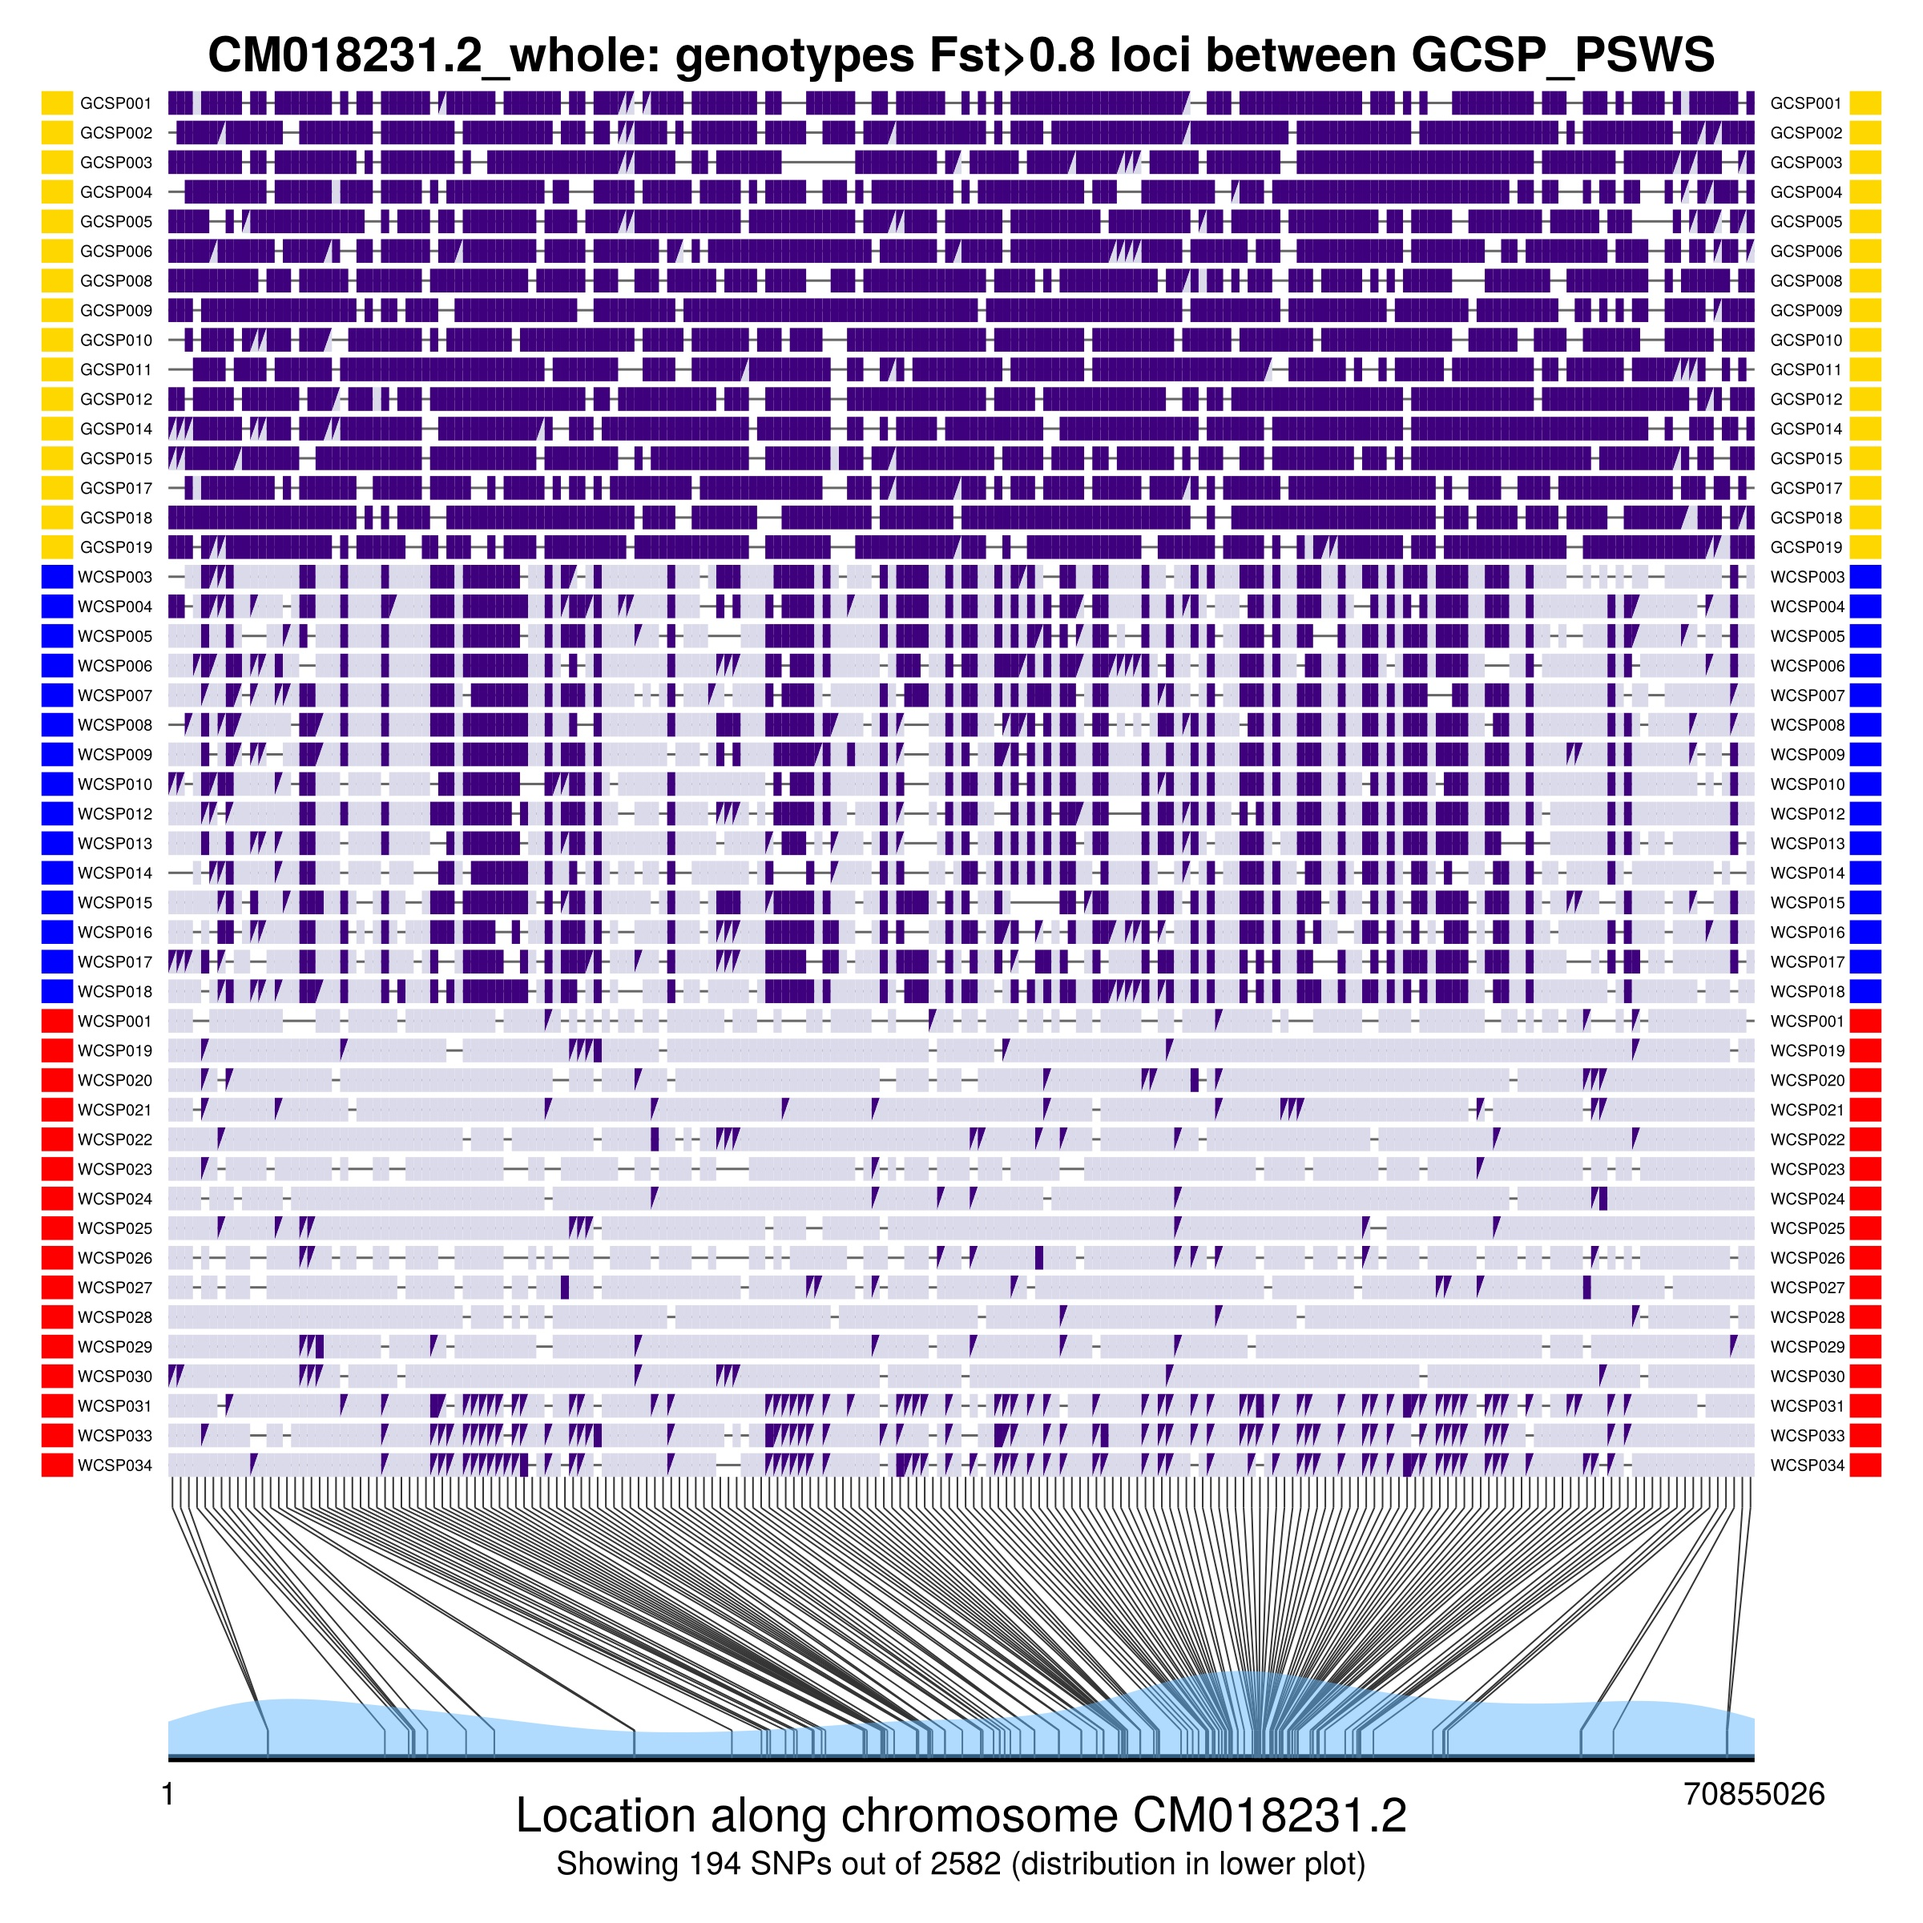
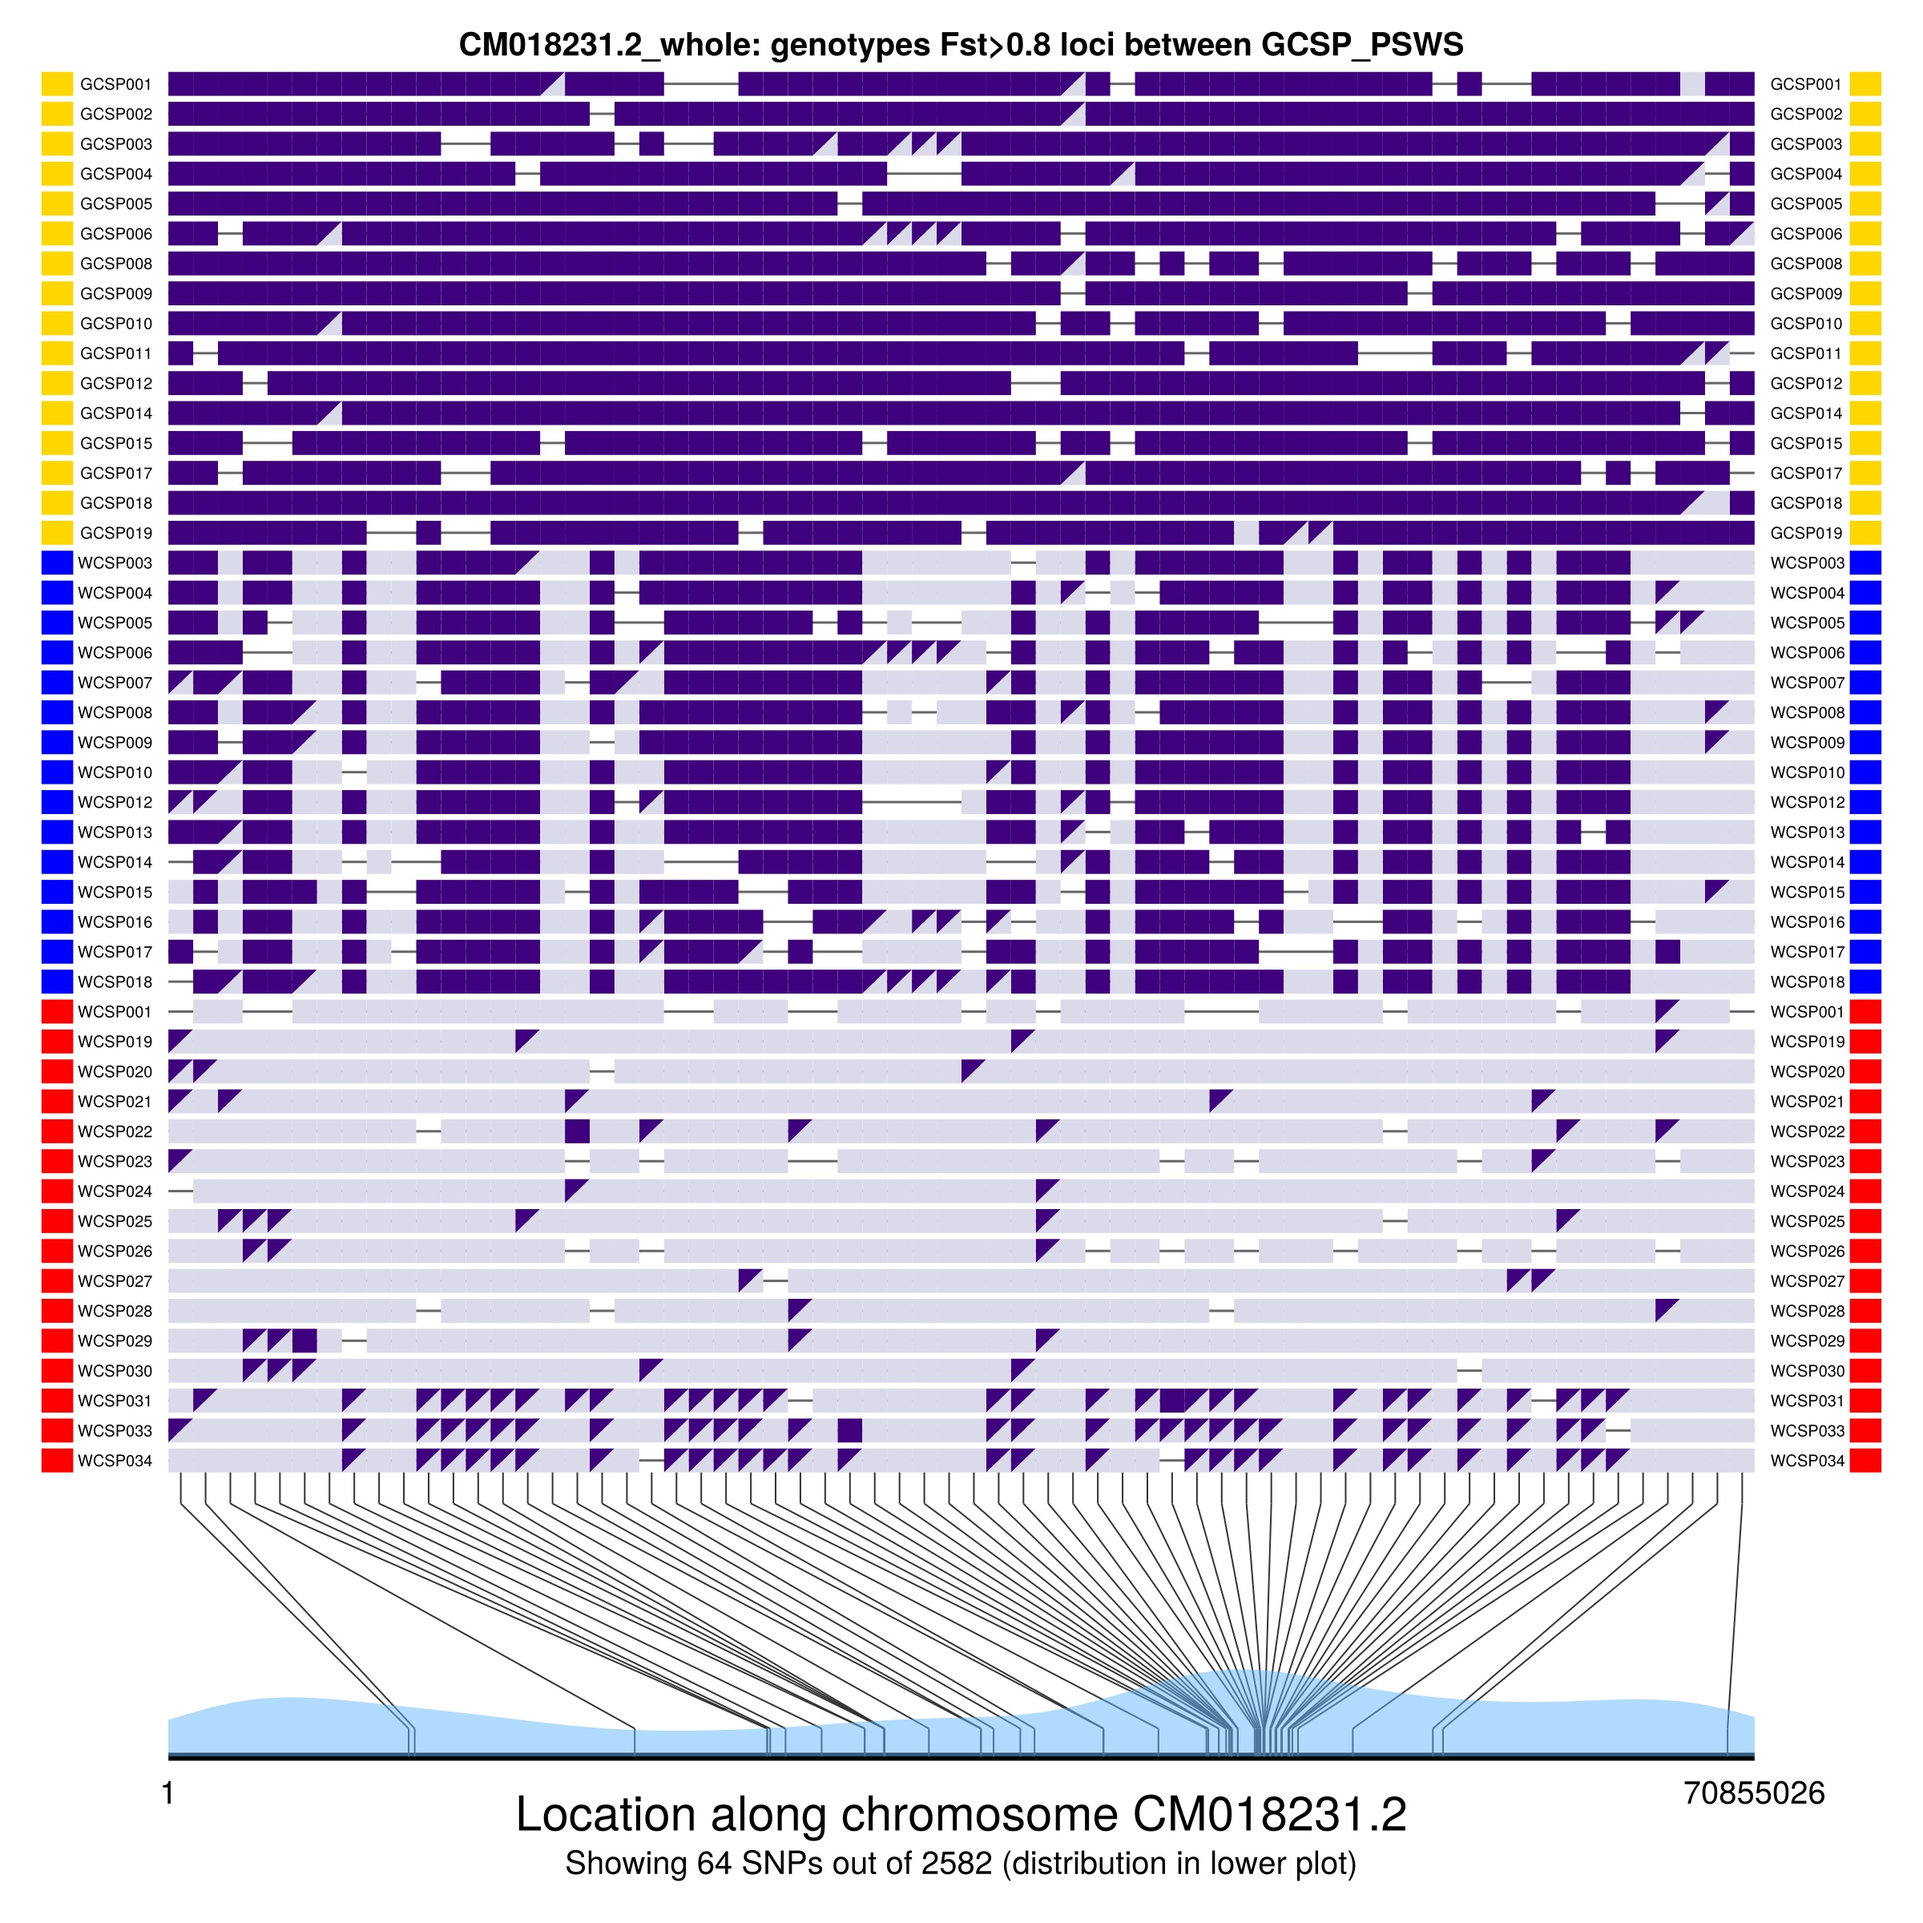
minor update of README.md and exampleScript.jl

diff --git a/README.md b/README.md
@@ -18,7 +18,7 @@ It can produce plots that illustrate various aspects of genomic diversity.
 
 If you use GenomicDiversity.jl, please cite this paper which will be the first to formally mention this package:
 
-Irwin, D., S. Bensch, C. Charlebois, G. David, A. Geraldes, S.K. Gupta, B. Harr, P. Holt, J.H. Irwin, V.V. Ivanitskii, I.M. Marova, Y. Niu, S. Seneviratne, A. Singh, Y. Wu, S. Zhang, T.D. Price. 2024. The distribution and dispersal of large haploblocks in a superspecies. Preprint (not yet peer-reviewed) on _Authorea_: [https://doi.org/10.22541/au.173114974.42895933/v1](https://doi.org/10.22541/au.173114974.42895933/v1)
+Irwin, D., S. Bensch, C. Charlebois, G. David, A. Geraldes, S.K. Gupta, B. Harr, P. Holt, J.H. Irwin, V.V. Ivanitskii, I.M. Marova, Y. Niu, S. Seneviratne, A. Singh, Y. Wu, S. Zhang, T.D. Price. 2025. The distribution and dispersal of large haploblocks in a superspecies. Molecular Ecology, in press.
 
 ## Disclaimer
 
@@ -36,7 +36,7 @@ The data files are within the folder `demoData/SparrowDemo_data_McCallumetal2024
 
 These input files were produced by an analysis pipeline that took genotyping-by-sequencing (GBS) reads, 
 mapped them to a reference genome, identified single nucleotide polymorphisms (SNPs), called genotypes of individuals,
-and outputted the information in three files: 
+and output the information in three files: 
 * a genotype file containing a matrix of genotypes (rows representing individuals and columns representing loci), where 0 represents homozygous reference, 1 represents heterozygous, 2 represents homozygous alternate, and -1 represents missing data
 * a `.indv` file containing individual identifiers (corresponding to rows of the genotype matrix)
 * a `.pos` file providing the locations of loci in the genome (with rows representing loci, column 1 indicating the scaffold, and column 2 indicating the position along that scaffold)
@@ -126,7 +126,7 @@ We'll calculate allele frequencies and sample sizes for each group,
 and then genetic differentiation (known as F<sub>ST</sub>) between the groups:
 
 ```julia
-freqs, sampleSizes = GenomicDiversity.getFreqsAndSampleSizes(sparrowGenoDataImputed, groupsToPlot)
+freqs, sampleSizes = GenomicDiversity.getFreqsAndSampleSizes(sparrowGenoData, groupsToPlot)
 
 Fst, FstNumerator, FstDenominator, pairwiseNamesFst = GenomicDiversity.getFst(freqs, 
                                     sampleSizes, groupsToPlot)
@@ -140,14 +140,14 @@ regionInfo = GenomicDiversity.chooseChrRegion(sparrowGenoData, chr) # this gets 
 group1 = "GCSP"   # the alleles most common in this  group will be assigned the same color in the graph
 groupsToCompare = "GCSP_PSWS" # The groups to compare for the Fst filter below
 Fst_cutoff =  0.8
-missingFractionAllowed = 0.2
+missingFractionAllowed = 0.1
 ```
 
 Finally, we can actually make the plot:
 
 ```julia
-plotInfo = GenomicDiversity.plotGenotypeByIndividualWithFst(sparrowGenoDataImputed, 
-    groupsToCompare, Fst_cutoff, missingFractionAllowed, 
+plotInfo = GenomicDiversity.plotGenotypeByIndividualWithFst(sparrowGenoData, groupsToCompare, 
+    Fst_cutoff, missingFractionAllowed, 
     regionInfo, Fst, pairwiseNamesFst, 
     freqs, groupsToPlot, groupColors)
 plotInfo[1] # this outputs the plot
